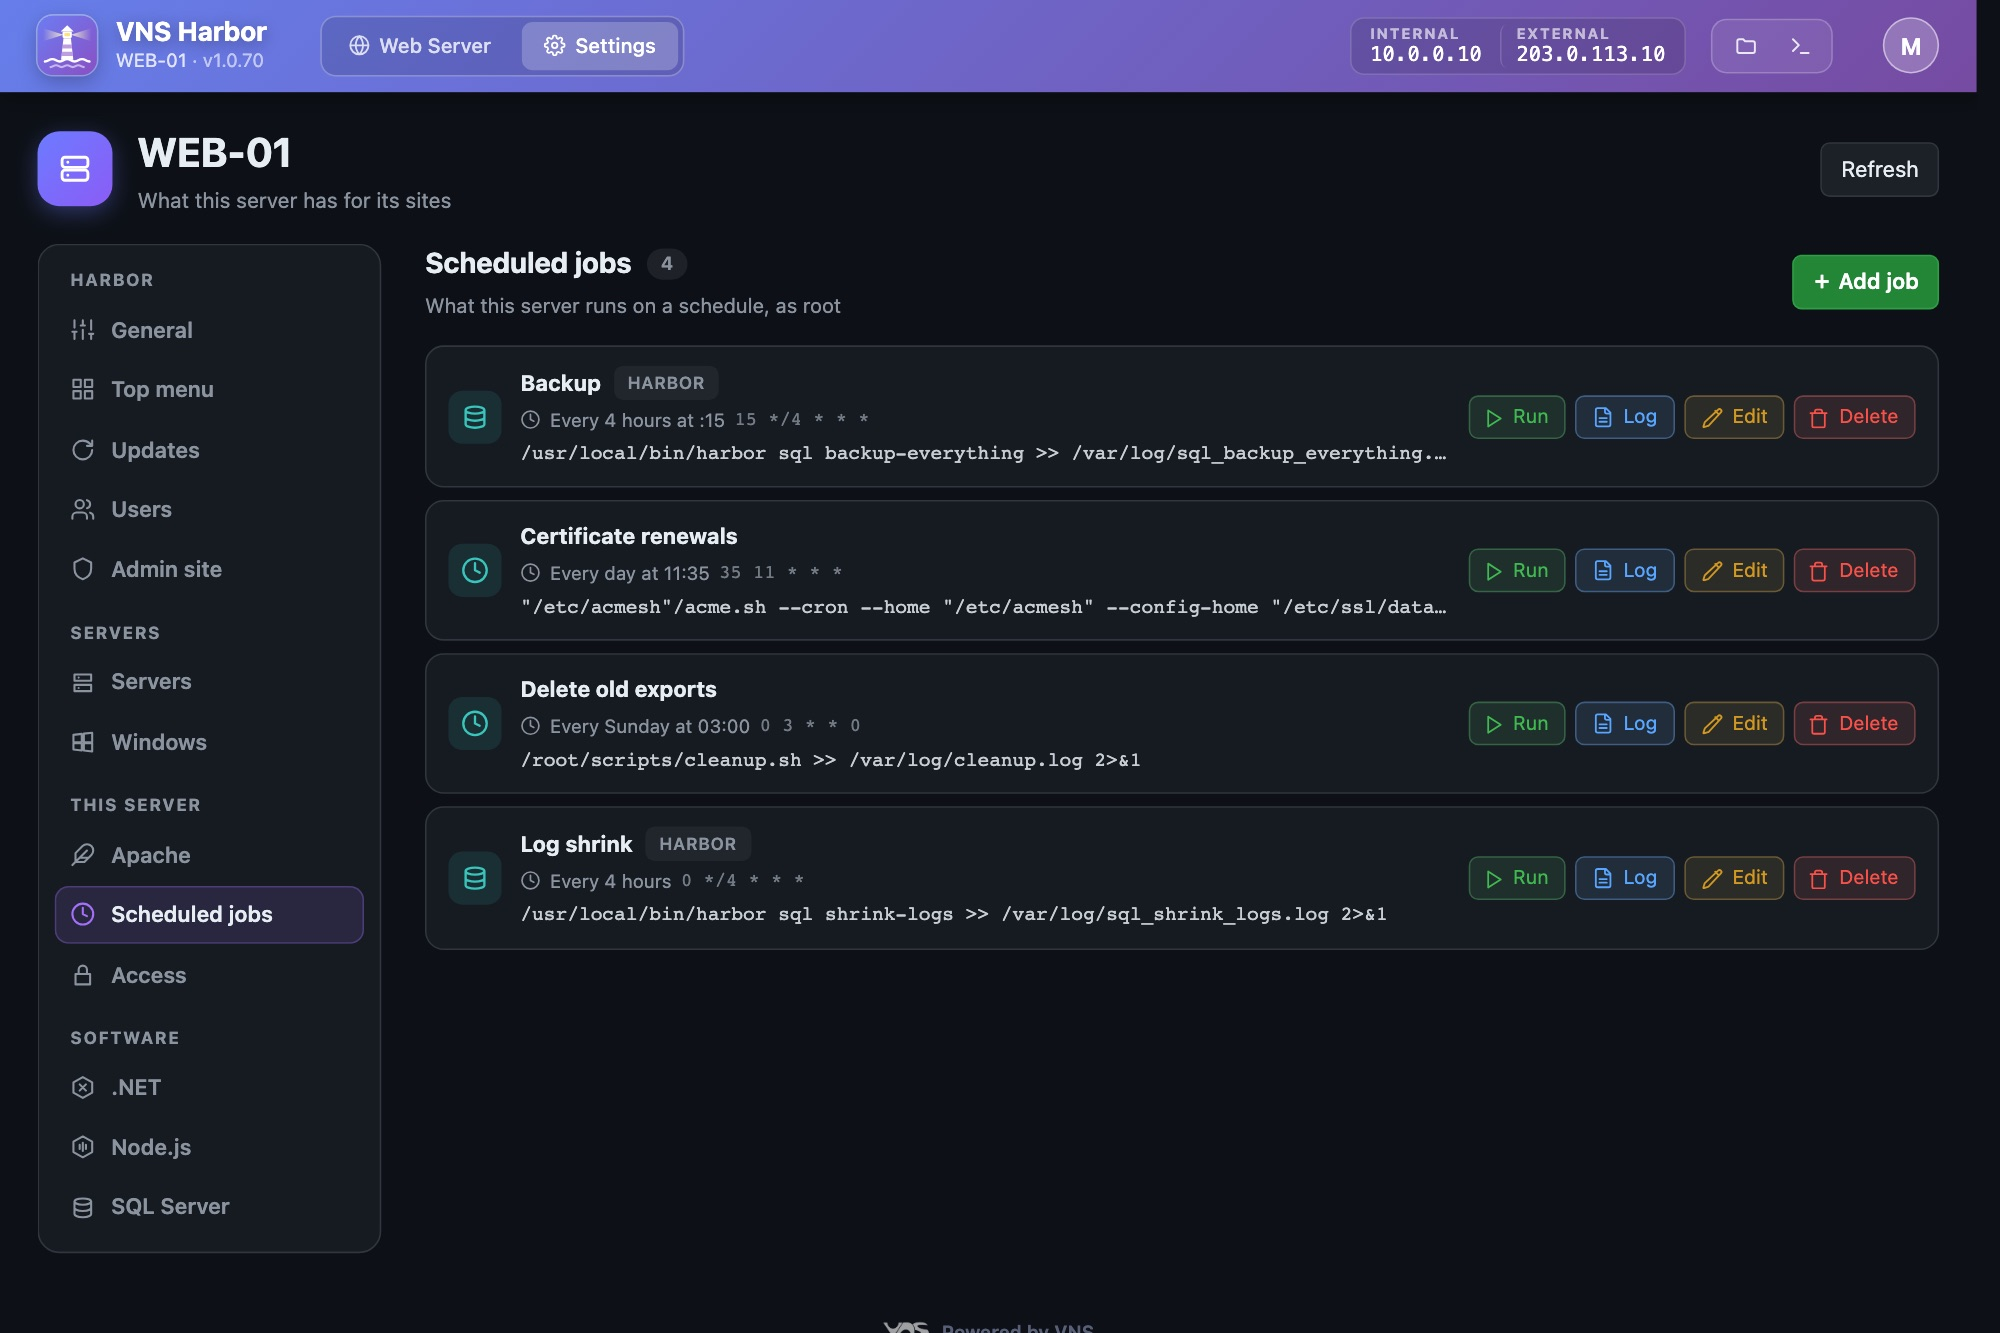
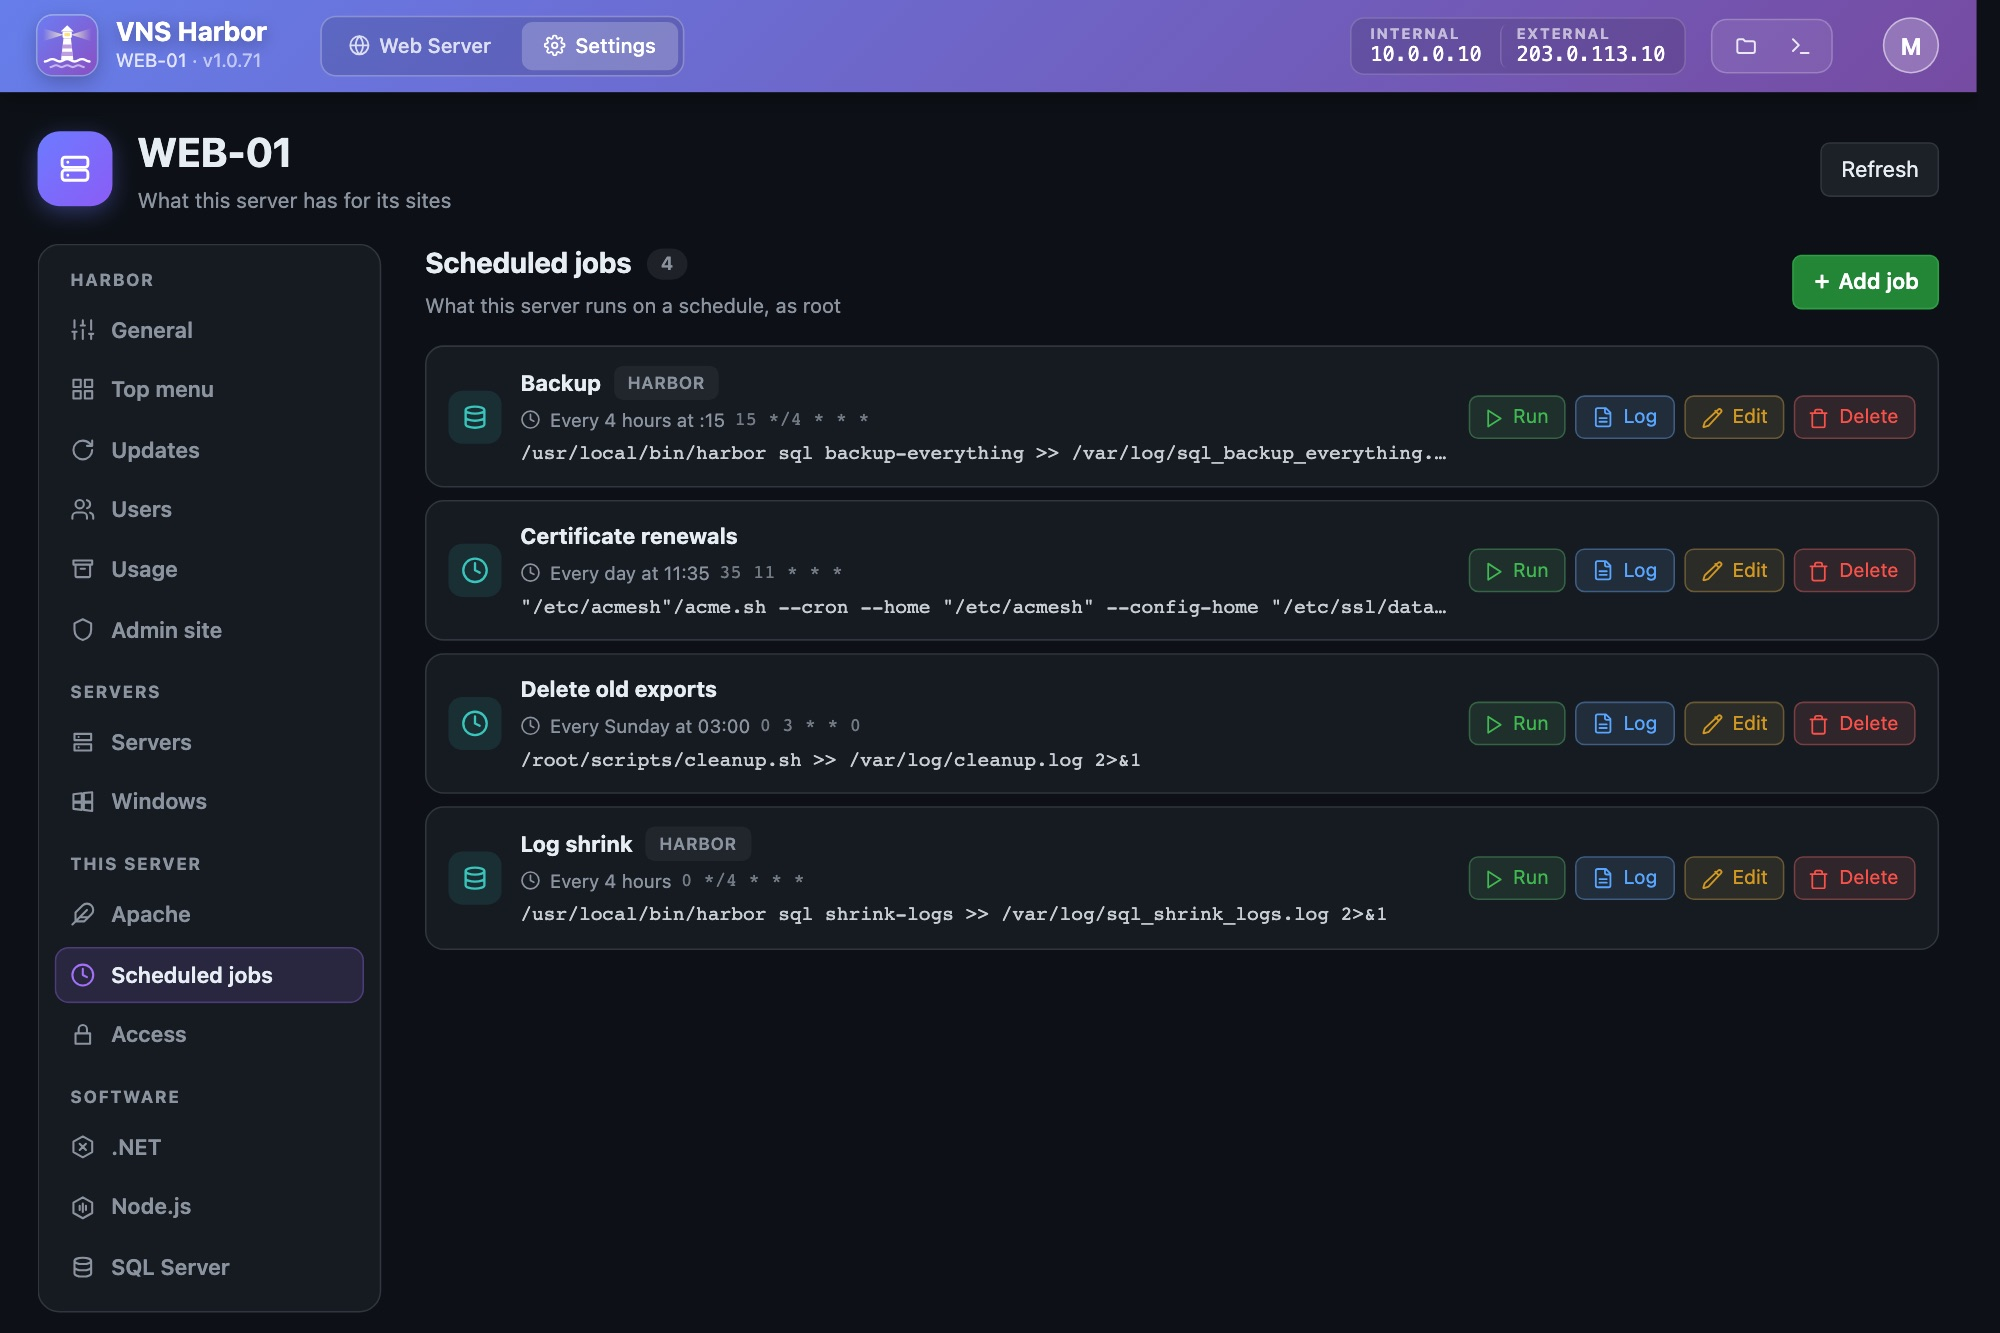
feat: Settings has Usage with every site and database, who made it and its limit (each site and database its own), deleting a user can take their sites and databases with them, the header's parts can be turned off, and the README shows SQL Server and Usage (1.0.71)

diff --git a/README.md b/README.md
@@ -25,7 +25,12 @@ sandbox of its own, and builds run as the unprivileged user `vns-build`.
 
 <p align="center">
   <img src="assets/screenshots/scheduled-jobs.jpg" alt="Scheduled jobs: root's crontab, a job at a time" width="49%" />
-  <img src="assets/screenshots/user.jpg" alt="A user: the sites, environments and actions they may use, SFTP and SQL Server" width="49%" />
+  <img src="assets/screenshots/user.jpg" alt="A user: Web Server, SFTP and SQL Server each a part, with the sites they may use, what they may do and how big a site of theirs may grow" width="49%" />
+</p>
+
+<p align="center">
+  <img src="assets/screenshots/sql.jpg" alt="SQL Server: a connection, its databases, backups and logins under tabs" width="49%" />
+  <img src="assets/screenshots/usage.jpg" alt="Usage: every site and database, who made it and its limit, with a mail when one grows past it" width="49%" />
 </p>
 
 ## Installation
